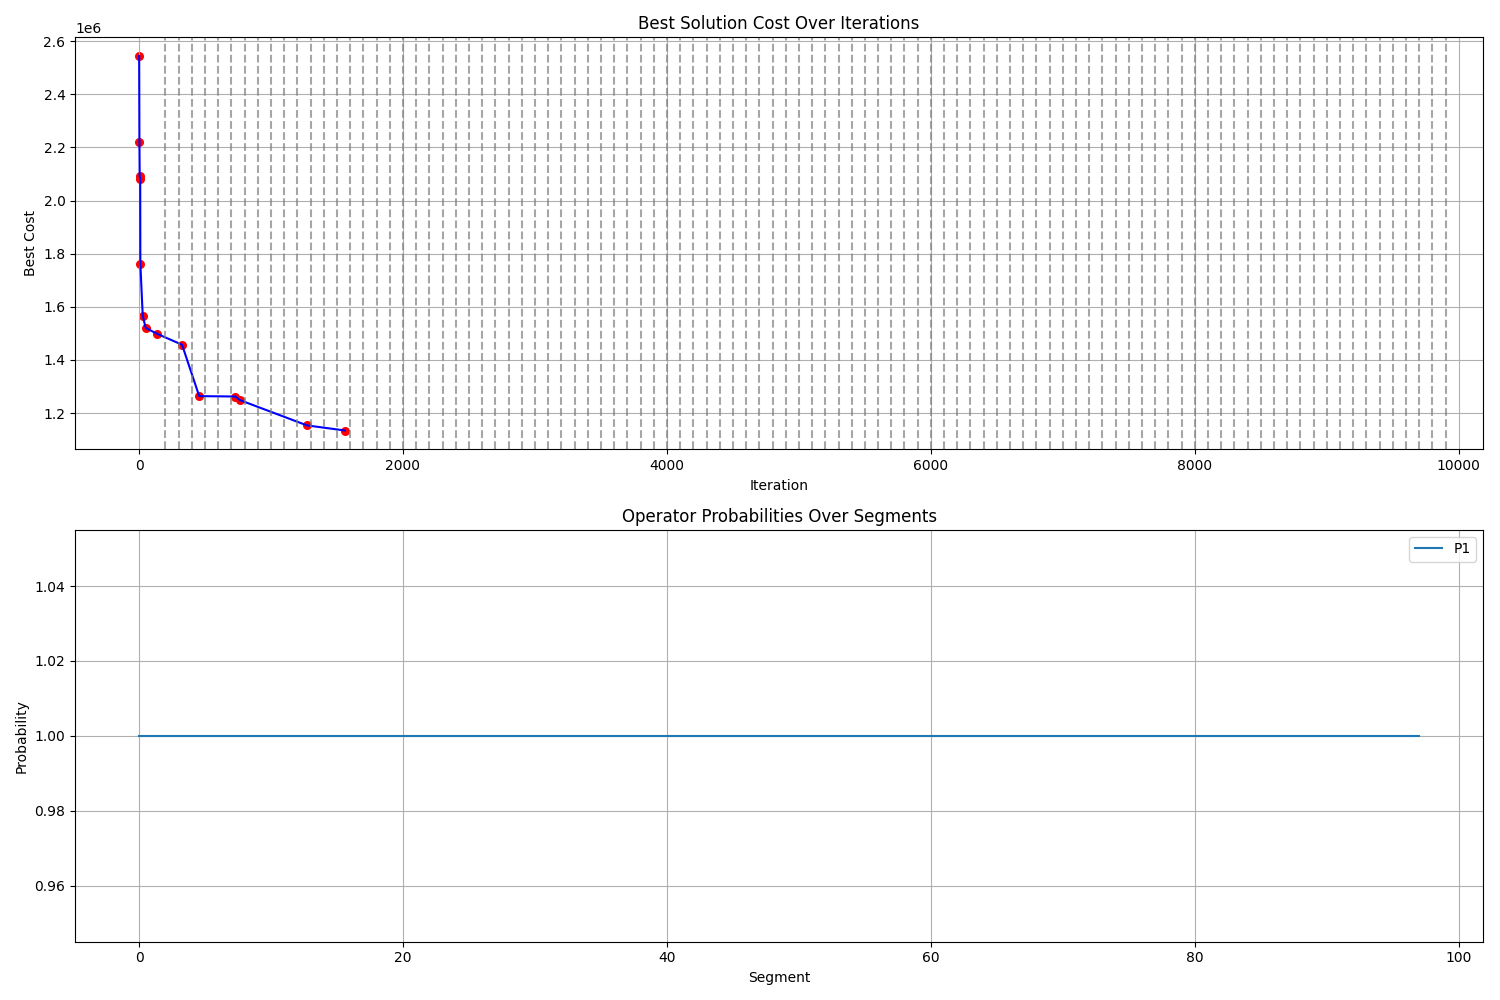
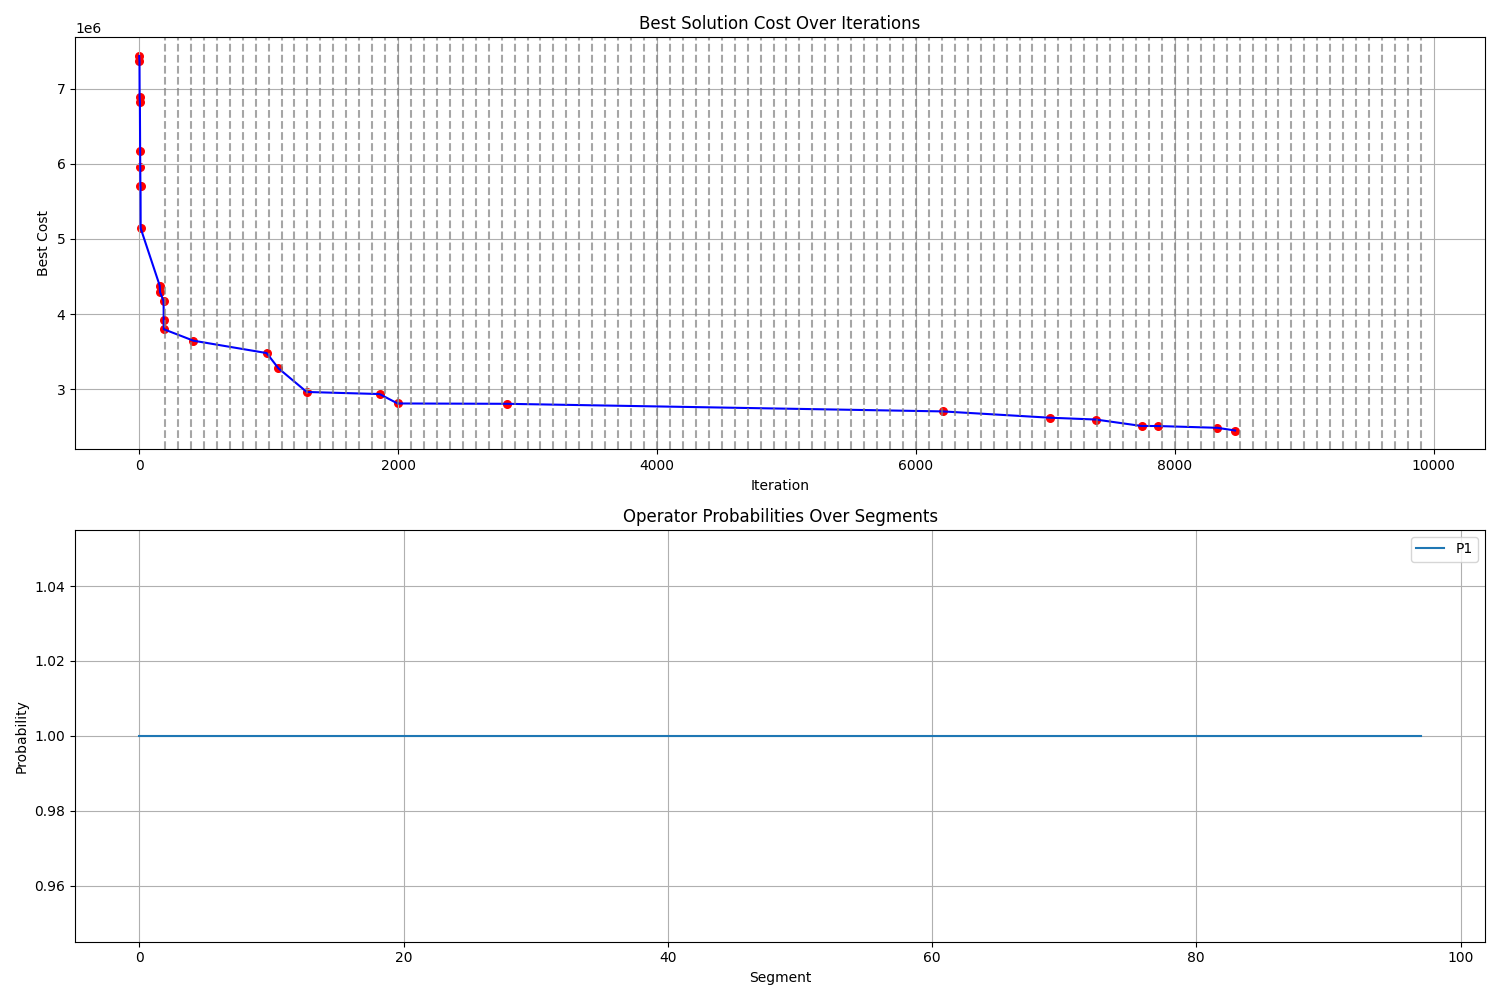
updated

diff --git a/assignment_5.py b/assignment_5.py
@@ -624,6 +624,7 @@ def general_adaptive_metaheuristics(prob, initial_sol, segment_size=100, plot_re
     best_sol = initial_sol.copy()
     incumbent = initial_sol.copy()
     T_f = 0.1  
+    total_iterations = 9900
     
     operators = [
         {"name": "P1", "function": OP1},
@@ -720,11 +721,11 @@ def general_adaptive_metaheuristics(prob, initial_sol, segment_size=100, plot_re
     else:
         T_0 = 1.0  
         
-    alpha = (T_f / T_0) ** (1/9900) 
+    alpha = (T_f / T_0) ** (1/total_iterations) 
     T = T_0
     
     # Main phase
-    for i in range(1, 9900):
+    for i in range(1, total_iterations):
         current_iteration = 100 + i  # Offset by warm-up phase
         
         # Checking if we need to escape local optimum
@@ -804,6 +805,12 @@ def general_adaptive_metaheuristics(prob, initial_sol, segment_size=100, plot_re
         # print(f"incumbent: {incumbent}, new: {incumbent_cost}, delta_e: {delta_E}")
         # print(f"new_sol: {new_sol}, new: {new_cost}, delta_e: {delta_E}")
         # print(f"delta_e: {delta_E}")
+        
+        g = i
+        G = total_iterations
+        D = 0.2 * ((G-g)/G) * best_cost
+        max_acceptable_cost = best_cost + D
+        
         if feasibility and delta_E < 0:
             incumbent = new_sol.copy()
             incumbent_cost = new_cost
@@ -825,10 +832,10 @@ def general_adaptive_metaheuristics(prob, initial_sol, segment_size=100, plot_re
             else:
                 iterations_since_best += 1
                 
-        elif feasibility and (random.random() < (math.exp((-1) * delta_E / T))):
+        # elif feasibility and (random.random() < (math.exp((-1) * delta_E / T))):
+        elif feasibility and (new_cost <= max_acceptable_cost):
             incumbent = new_sol.copy()
             incumbent_cost = new_cost
-            
             iterations_since_best += 1
             
             # Feasible but not better: +1 point

diff --git a/main_5.py b/main_5.py
@@ -5,15 +5,15 @@ from pdp_utils.operators import *
 import traceback
 
 files = [
-        'Call_7_Vehicle_3.txt', 
-        # 'Call_18_Vehicle_5.txt',
+        # 'Call_7_Vehicle_3.txt', 
+        'Call_18_Vehicle_5.txt',
         #   'Call_35_Vehicle_7.txt',
         #   'Call_80_Vehicle_20.txt',
         #   'Call_130_Vehicle_40.txt',
         #   'Call_300_Vehicle_90.txt',  
         ]
 
-num_runs = 1
+num_runs = 10
 results = {}
 
 
